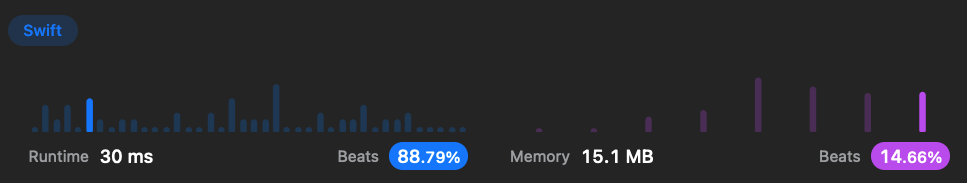
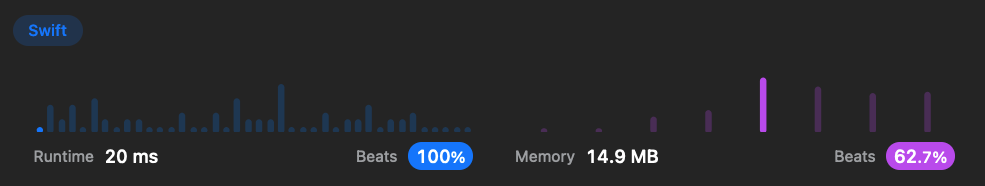
328

diff --git a/LeetCode.playground/Pages/328. Odd Even Linked List .xcplaygroundpage/Contents.swift b/LeetCode.playground/Pages/328. Odd Even Linked List .xcplaygroundpage/Contents.swift
@@ -1,4 +1,39 @@
+/*:
+ ### Time: O(N)
+ ### Space: O(1)
+ ![submission](1.png)
+ */
 class Solution {
+    func oddEvenList(_ head: ListNode?) -> ListNode? {
+        if head == nil { return nil }
+        
+        var odd = head, even = head?.next, evenHead = even
+        
+        while even != nil && even?.next != nil {
+            odd?.next = even?.next
+            odd = odd?.next
+            even?.next = odd?.next
+            even = even?.next
+        }
+        
+        odd?.next = evenHead
+        
+        return head
+    }
+}
+
+let s = Solution().oddEvenList
+
+s(ListNode(1, ListNode(2, ListNode(3, ListNode(4, ListNode(5))))))
+s(ListNode(1, ListNode(2, ListNode(3, ListNode(4, ListNode(5, ListNode(6)))))))
+s(ListNode())
+
+/*:
+ ### Time: O(N)
+ ### Space: O(1)
+ ![submission](2.png)
+ */
+class Solution2 {
     func oddEvenList(_ head: ListNode?) -> ListNode? {
         var cur = head
         var prev = cur
@@ -36,9 +71,9 @@ class Solution {
     }
 }
 
-let s = Solution().oddEvenList
+let s2 = Solution2().oddEvenList
 
-s(ListNode(1, ListNode(2, ListNode(3, ListNode(4, ListNode(5))))))
-s(ListNode(1, ListNode(2, ListNode(3, ListNode(4, ListNode(5, ListNode(6)))))))
-s(ListNode())
+s2(ListNode(1, ListNode(2, ListNode(3, ListNode(4, ListNode(5))))))
+s2(ListNode(1, ListNode(2, ListNode(3, ListNode(4, ListNode(5, ListNode(6)))))))
+s2(ListNode())
 
